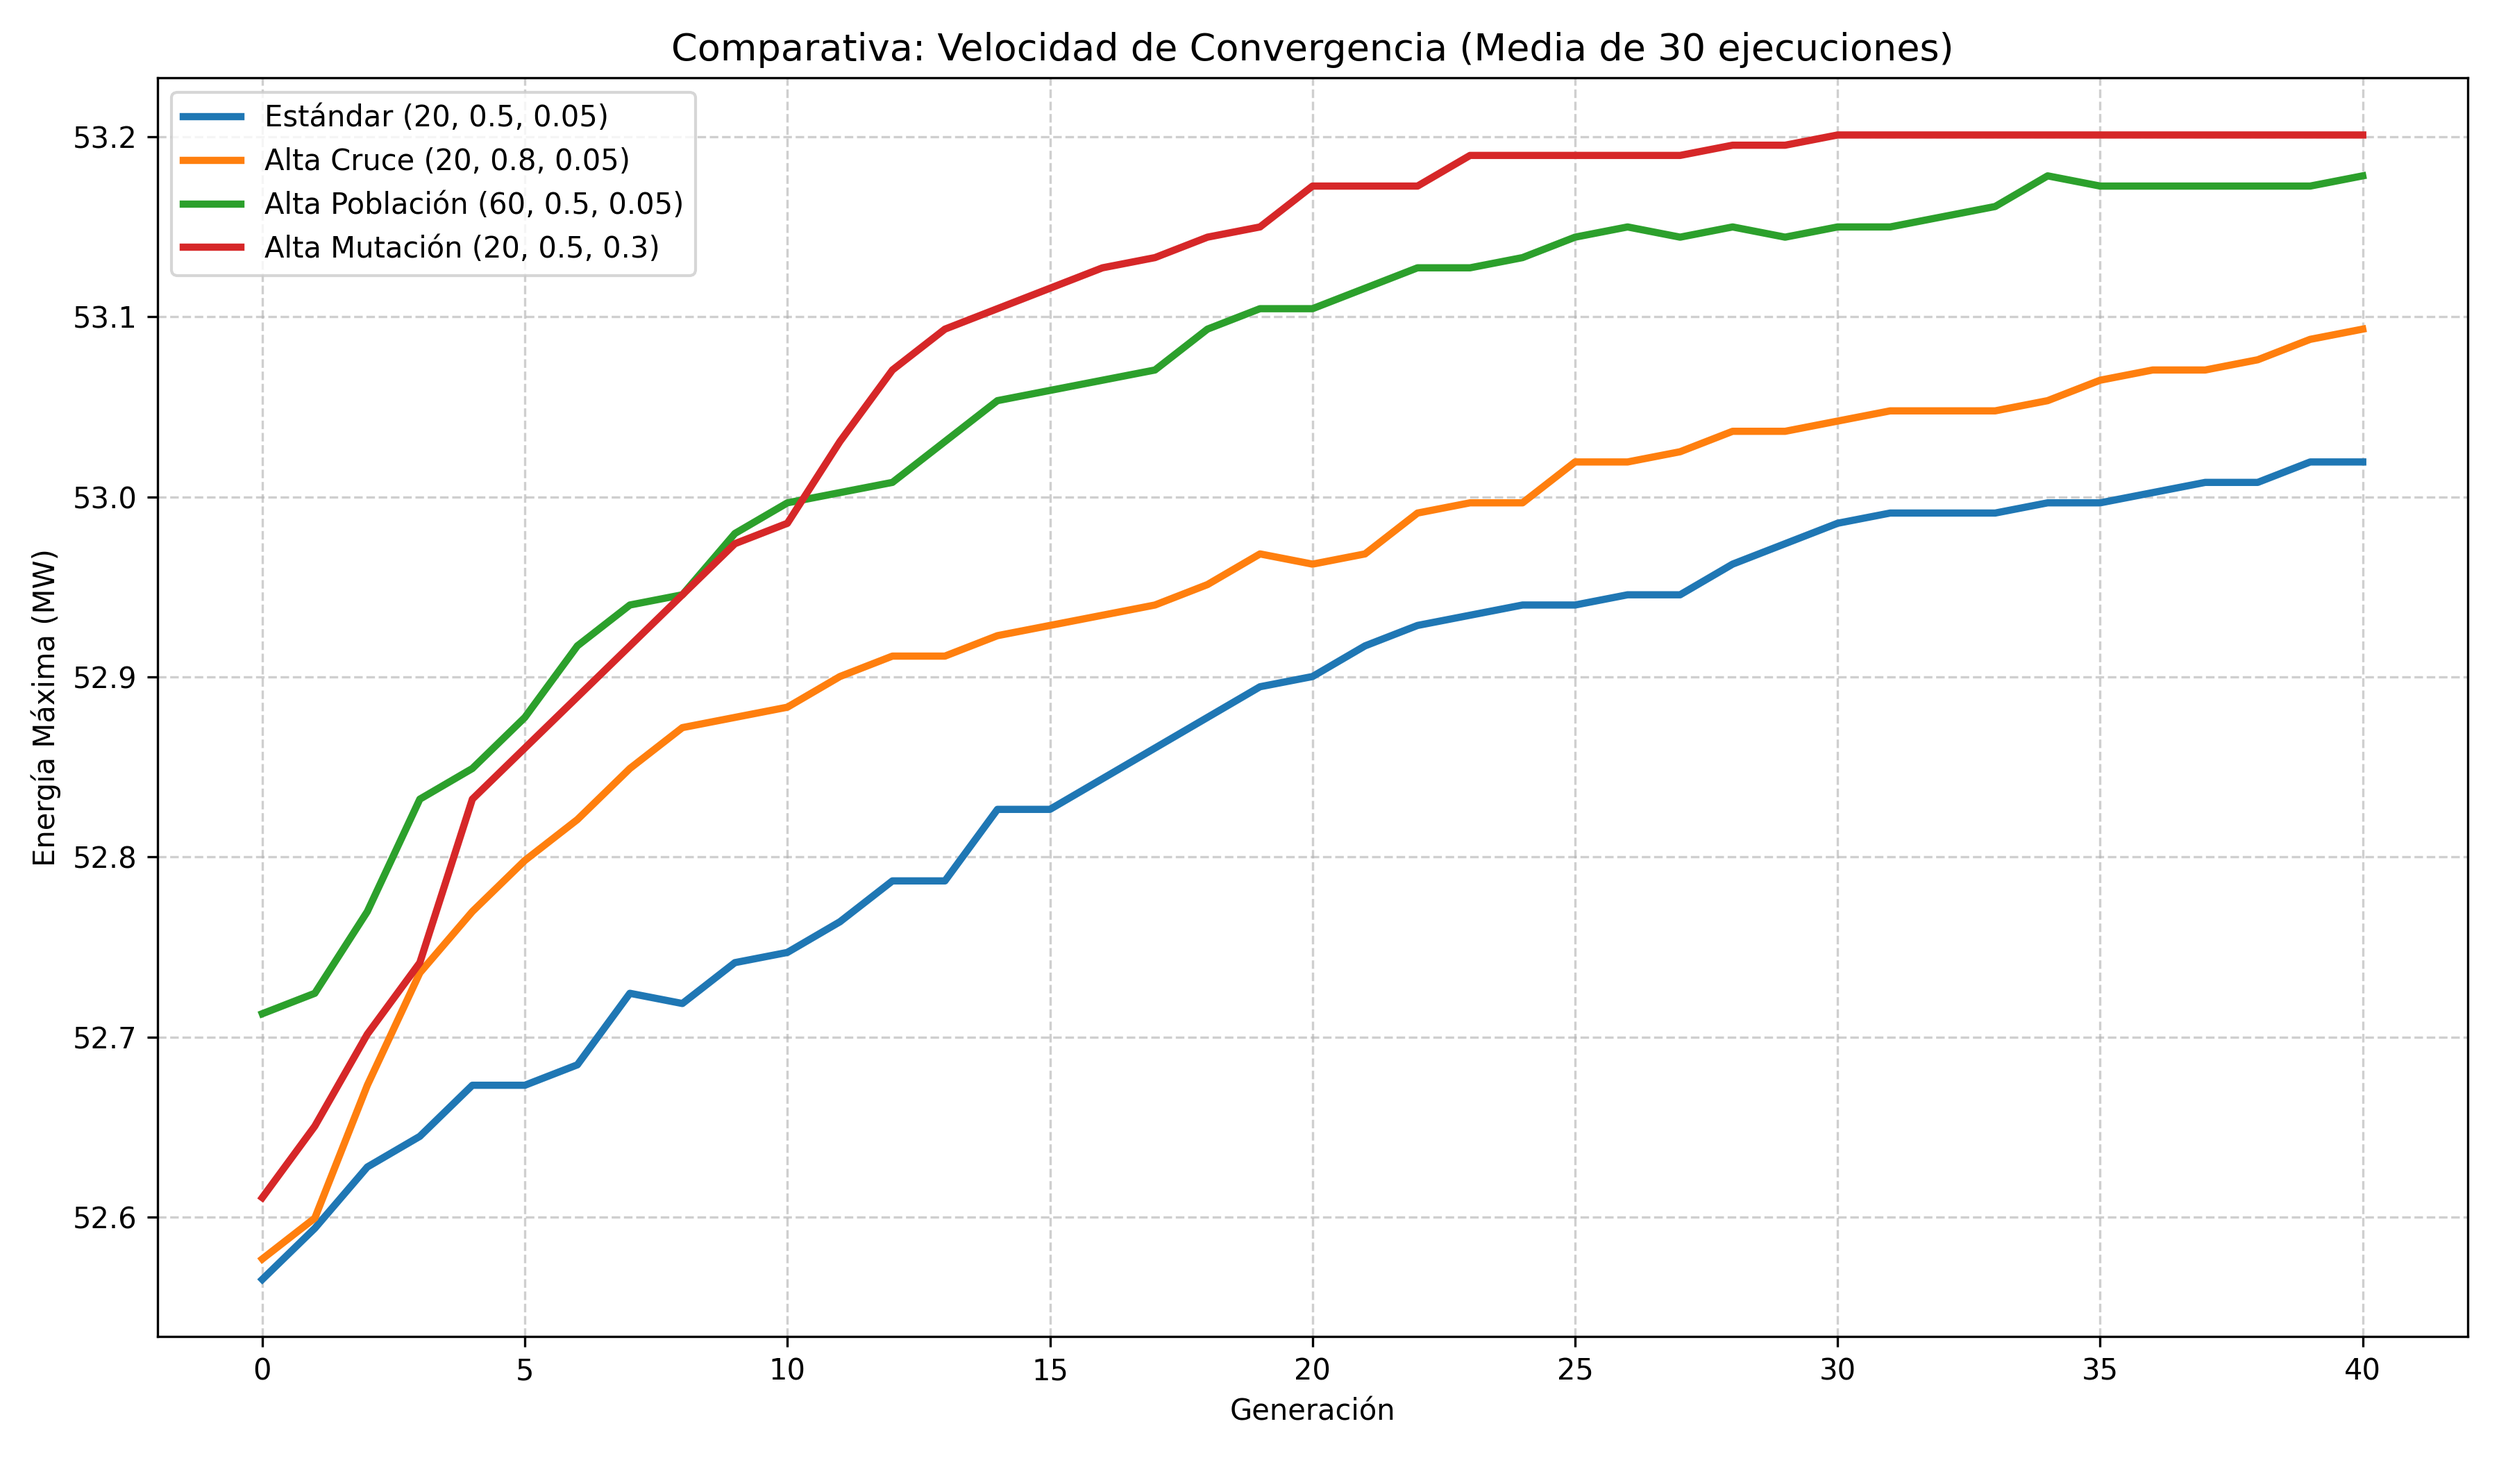
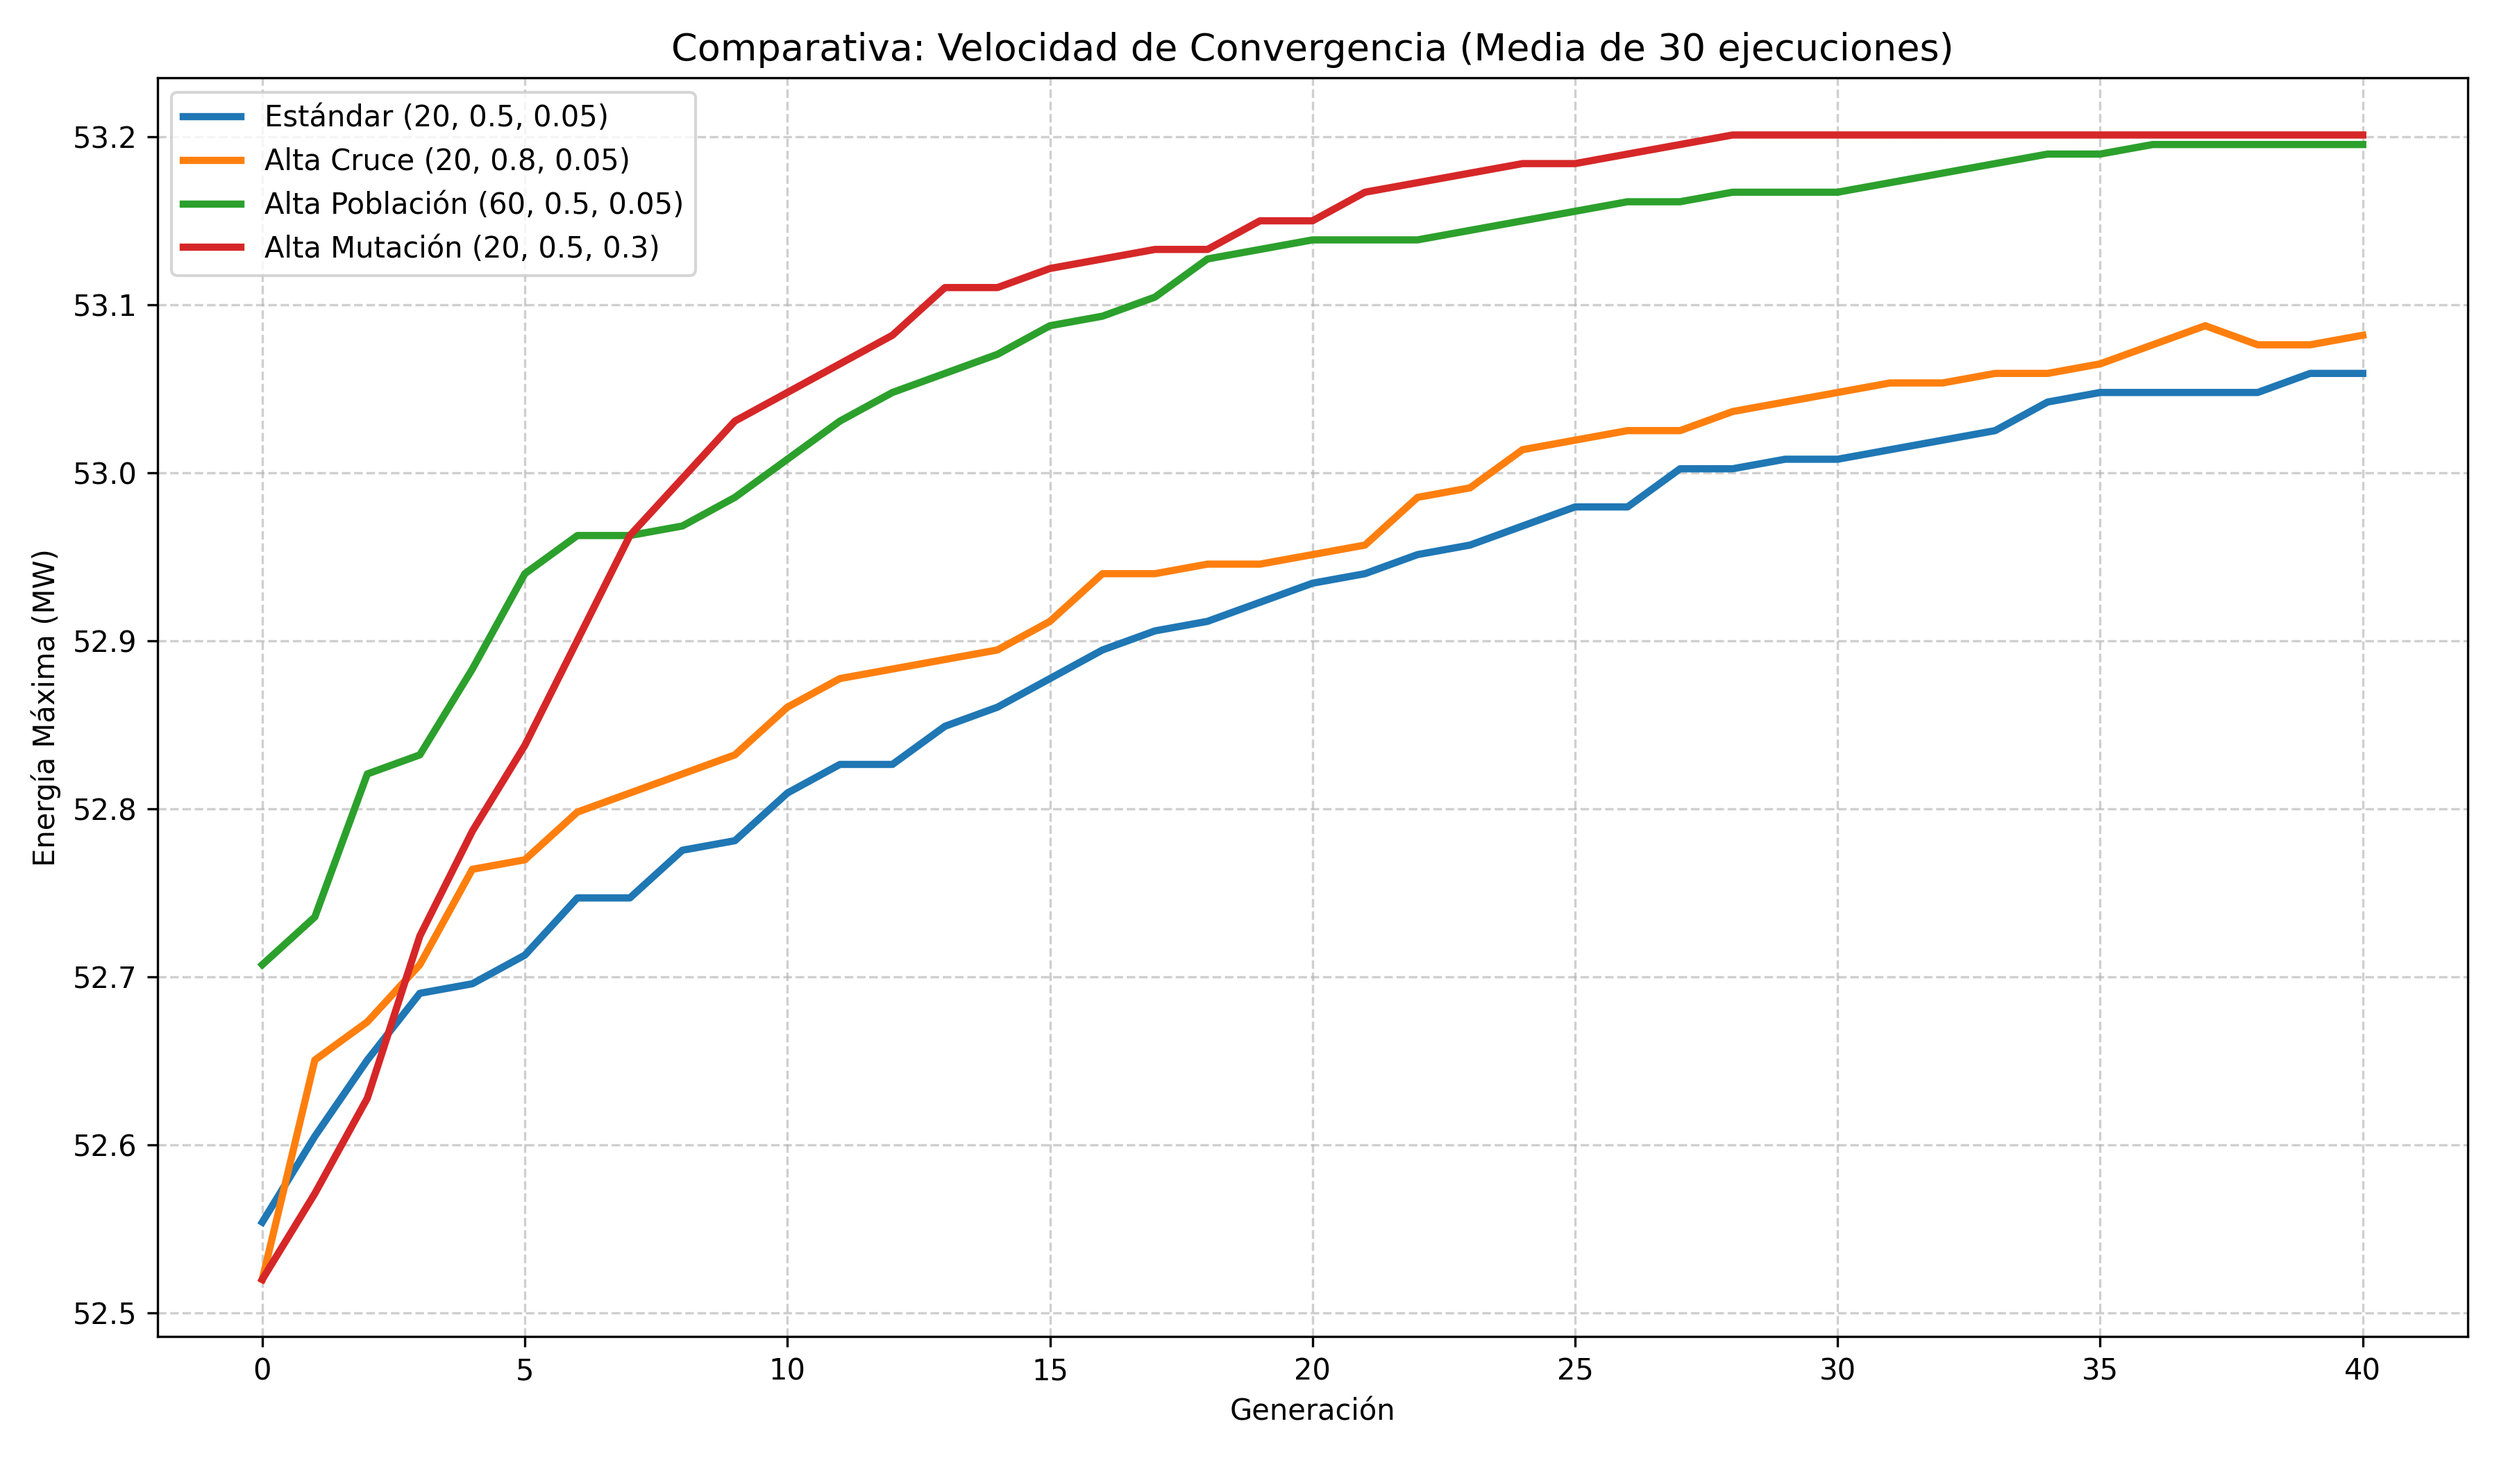
lab 3

diff --git a/LaboratorioN3/FrozenLakeQLearning.py b/LaboratorioN3/FrozenLakeQLearning.py
@@ -1,0 +1,141 @@
+# pyrefly: ignore [missing-import]
+import gymnasium as gym
+import numpy as np
+import random
+import matplotlib.pyplot as plt
+
+# Configuración del entorno
+
+# MODIFICAR ACÁ: True para modo Estocástico, False para modo Determinístico
+MODO_ESTOCASTICO = False 
+
+env = gym.make('FrozenLake-v1', is_slippery=MODO_ESTOCASTICO, render_mode=None)
+
+
+# Implementación de Q-Learning (Pseudocódigo Slide 90)
+def q_learning(env, episodios=10000, alpha=0.1, gamma=0.99, epsilon=1.0, epsilon_decay=0.999):
+    cant_estados = env.observation_space.n
+    cant_acciones = env.action_space.n
+    
+    Q = np.zeros((cant_estados, cant_acciones))
+    recompensas_por_episodio = []
+    
+    print(f"Iniciando entrenamiento de Q-Learning ({episodios} episodios)...")
+    
+    for ep in range(episodios):
+        epsilon = max(epsilon * epsilon_decay, 0.01)
+        
+        observacion, info = env.reset()
+        estado = int(observacion) if isinstance(observacion, (int, np.integer)) else int(observacion[0])
+        
+        episodio_terminado = False
+        recompensa_acumulada = 0
+        
+        while not episodio_terminado:
+            if random.uniform(0, 1) < epsilon:
+                accion = env.action_space.sample()  
+            else:
+                accion = np.argmax(Q[estado, :])
+                
+            sig_obs, recompensa, terminado, truncado, info = env.step(accion)
+            sig_estado = int(sig_obs) if isinstance(sig_obs, (int, np.integer)) else int(sig_obs[0])
+            
+            episodio_terminado = terminado or truncado
+            
+            mejor_sig_accion = np.argmax(Q[sig_estado, :])
+            objetivo_td = recompensa + gamma * Q[sig_estado, mejor_sig_accion]
+            error_td = objetivo_td - Q[estado, accion]
+            Q[estado, accion] += alpha * error_td
+            
+            estado = sig_estado
+            recompensa_acumulada += recompensa
+            
+        recompensas_por_episodio.append(recompensa_acumulada)
+        
+    # Extraer la política final
+    politica = np.argmax(Q, axis=1)
+    return Q, politica, recompensas_por_episodio
+
+# Gráfico de la política óptima
+def graficar_politica(politica, env):
+    desc = env.unwrapped.desc.astype('U')
+    shape = desc.shape
+    
+    acciones_str = {0: '←', 1: '↓', 2: '→', 3: '↑'}
+    
+    fig, ax = plt.subplots(figsize=(6, 6))
+    
+    # Mapa de colores para las casillas
+    color_map = np.zeros(shape)
+    for i in range(shape[0]):
+        for j in range(shape[1]):
+            if desc[i, j] == 'S': color_map[i, j] = 0.5
+            elif desc[i, j] == 'F': color_map[i, j] = 0.8
+            elif desc[i, j] == 'H': color_map[i, j] = 0.0
+            elif desc[i, j] == 'G': color_map[i, j] = 1.0
+            
+    ax.matshow(color_map, cmap='coolwarm')
+    
+    for i in range(shape[0]):
+        for j in range(shape[1]):
+            estado = i * shape[1] + j
+            if desc[i, j] in ['H', 'G']:
+                ax.text(j, i, desc[i, j], ha='center', va='center', fontsize=20, fontweight='bold', color='white' if desc[i, j] == 'H' else 'black')
+            else:
+                accion = politica[estado]
+                ax.text(j, i, acciones_str[accion], ha='center', va='center', fontsize=24)
+            
+    ax.set_xticks(np.arange(shape[1]) - 0.5, minor=True)
+    ax.set_yticks(np.arange(shape[0]) - 0.5, minor=True)
+    ax.grid(which="minor", color="black", linestyle='-', linewidth=2)
+    ax.tick_params(which="minor", size=0)
+    ax.set_xticks([])
+    ax.set_yticks([])
+    plt.title("Política Óptima (Gris: Inicio, Naranja: Hielo, H: Hoyo, G: Meta)", pad=20)
+    plt.show()
+
+
+# Ejecución del entrenamiento
+Q_tabla, politica_q, historial_recompensas = q_learning(env, episodios=10000)
+print("\n¡Entrenamiento finalizado!")
+print(f"Tabla Q resultante:\n{Q_tabla}")
+print(f"Política derivada de Q:\n{politica_q}")
+
+# Fase de prueba
+print("\nEjecutando episodio de prueba con la política aprendida...")
+observacion, info = env.reset()
+episodio_terminado = False
+recompensa_total = 0
+
+while not episodio_terminado:
+    estado_actual = int(observacion) if isinstance(observacion, (int, np.integer)) else int(observacion[0])
+    accion = int(politica_q[estado_actual]) # Acción inteligente derivada de Q
+    
+    observacion, recompensa, terminado, truncado, info = env.step(accion)
+    recompensa_total += recompensa
+    episodio_terminado = terminado or truncado
+
+print(f"Episodio de prueba finalizado. Recompensa: {recompensa_total}")
+env.close()
+
+# Generación de gráfica
+
+plt.figure(figsize=(10, 5))
+
+window = 200
+medias_moviles = np.convolve(historial_recompensas, np.ones(window)/window, mode='valid')
+
+plt.plot(historial_recompensas, alpha=0.15, color='blue', label='Recompensa por episodio')
+plt.plot(medias_moviles, color='red', linewidth=2, label=f'Media móvil (ventana {window})')
+plt.title(f"Rendimiento de Q-Learning - ¿Es estocástico?: {MODO_ESTOCASTICO}")
+plt.xlabel("Episodios")
+plt.ylabel("Recompensa")
+plt.legend()
+plt.grid(True)
+
+# Guarda la imagen automáticamente en tu carpeta
+nombre_grafico = "q_learning_estocastico.png" if MODO_ESTOCASTICO else "q_learning_deterministico.png"
+plt.savefig(nombre_grafico, dpi=300)
+print(f"Gráfica guardada con éxito como: {nombre_grafico}")
+plt.show()
+graficar_politica(politica_q, env)

diff --git a/LaboratorioN3/FrozenLakeValueIteration.py b/LaboratorioN3/FrozenLakeValueIteration.py
@@ -1,0 +1,133 @@
+# pyrefly: ignore [missing-import]
+import gymnasium as gym
+import numpy as np
+import matplotlib.pyplot as plt
+
+
+# Implementación de value iteration
+def value_iteration(env, gamma=0.99, theta=1e-8):
+    cant_estados = env.observation_space.n
+    cant_acciones = env.action_space.n
+
+    V = np.zeros(cant_estados)
+    politica = np.zeros(cant_estados, dtype=int)
+
+    while True:
+        delta = 0
+        for s in range(cant_estados):
+            v_old = V[s]
+            q_values = []
+
+            for a in range(cant_acciones):
+                q_sa = 0
+
+                for prob, sig_estado, recompensa, terminado in env.unwrapped.P[s][a]:
+                    q_sa += prob * (recompensa + gamma * V[sig_estado])
+                q_values.append(q_sa)
+            
+            V[s] = max(q_values)
+            delta = max(delta, abs(v_old - V[s]))
+        
+        if delta < theta:
+            break
+    
+    # Extraer política
+    for s in range(cant_estados):
+        q_values = []
+        for a in range(cant_acciones):
+            q_sa = 0
+            for prob, next_state, reward, done in env.unwrapped.P[s][a]:
+                q_sa += prob * (reward + gamma * V[next_state])
+            q_values.append(q_sa)
+        politica[s] = np.argmax(q_values)
+
+    return V, politica
+
+# Gráfico de la política y valores (Mapa de Calor)
+def graficar_politica(valores, politica, env):
+    desc = env.unwrapped.desc.astype('U')
+    shape = desc.shape
+    
+    fig, ax = plt.subplots(figsize=(8, 8))
+    
+    # Crear un mapa de colores RGB
+    color_map = np.zeros((shape[0], shape[1], 3))
+    
+    # Normalizar valores para el degradado (ignorando posibles valores negativos en FrozenLake no los hay)
+    v_max = np.max(valores) if np.max(valores) > 0 else 1.0
+    
+    for i in range(shape[0]):
+        for j in range(shape[1]):
+            estado = i * shape[1] + j
+            if desc[i, j] == 'H':
+                color_map[i, j] = [0.7, 0.0, 0.0] # Rojo oscuro para hoyos
+            elif desc[i, j] == 'G':
+                color_map[i, j] = [0.0, 0.8, 0.0] # Verde brillante para meta
+            else:
+                # Degradado de verde según el valor
+                v_norm = valores[estado] / v_max
+                # Evitar que quede totalmente negro, base = 0.2
+                color_map[i, j] = [0.0, 0.2 + 0.6 * v_norm, 0.0]
+                
+    ax.imshow(color_map)
+    
+    for i in range(shape[0]):
+        for j in range(shape[1]):
+            estado = i * shape[1] + j
+            
+            if desc[i, j] == 'H':
+                ax.text(j, i, "0.0", ha='center', va='center', fontsize=20, fontweight='bold', color='white')
+            elif desc[i, j] == 'G':
+                ax.text(j, i, "G", ha='center', va='center', fontsize=24, fontweight='bold', color='white')
+            else:
+                # Mostrar el valor en el centro
+                val_str = f"{valores[estado]:.2f}"
+                ax.text(j, i, val_str, ha='center', va='center', fontsize=16, fontweight='bold', color='white')
+                
+                # Mostrar el triángulo de la acción en el borde
+                accion = politica[estado]
+                if accion == 0: # Izquierda
+                    ax.text(j - 0.35, i, '◄', ha='center', va='center', fontsize=14, color='white')
+                elif accion == 1: # Abajo
+                    ax.text(j, i + 0.35, '▼', ha='center', va='center', fontsize=14, color='white')
+                elif accion == 2: # Derecha
+                    ax.text(j + 0.35, i, '►', ha='center', va='center', fontsize=14, color='white')
+                elif accion == 3: # Arriba
+                    ax.text(j, i - 0.35, '▲', ha='center', va='center', fontsize=14, color='white')
+            
+    ax.set_xticks(np.arange(shape[1]) - 0.5, minor=True)
+    ax.set_yticks(np.arange(shape[0]) - 0.5, minor=True)
+    ax.grid(which="minor", color="white", linestyle='-', linewidth=2)
+    ax.tick_params(which="minor", size=0)
+    ax.set_xticks([])
+    ax.set_yticks([])
+    plt.title("Mapa de Calor: Valores y Política Óptima", pad=20, fontsize=16)
+    plt.show()
+
+
+# Configuración del entorno y cálculo
+env = gym.make('FrozenLake-v1', is_slippery=False, render_mode="human")
+
+valores_optimos, politica_optima = value_iteration(env)
+
+print("Valores Optimos:", valores_optimos)
+print("Politica Optima:", politica_optima)
+
+# Graficar la política óptima y el mapa de calor
+graficar_politica(valores_optimos, politica_optima, env)
+
+# Ejecución con politica óptima
+observacion, info = env.reset()
+
+episodio_terminado = False
+recompensa_total = 0
+
+while not episodio_terminado:
+    
+    accion = int(politica_optima[observacion])
+    observacion, recompensa, episodio_terminado, truncamiento, info = env.step(accion)
+    recompensa_total += recompensa
+    episodio_terminado = episodio_terminado or truncamiento
+
+print(f"Recompensa obtenida: {recompensa_total}")
+env.close()
